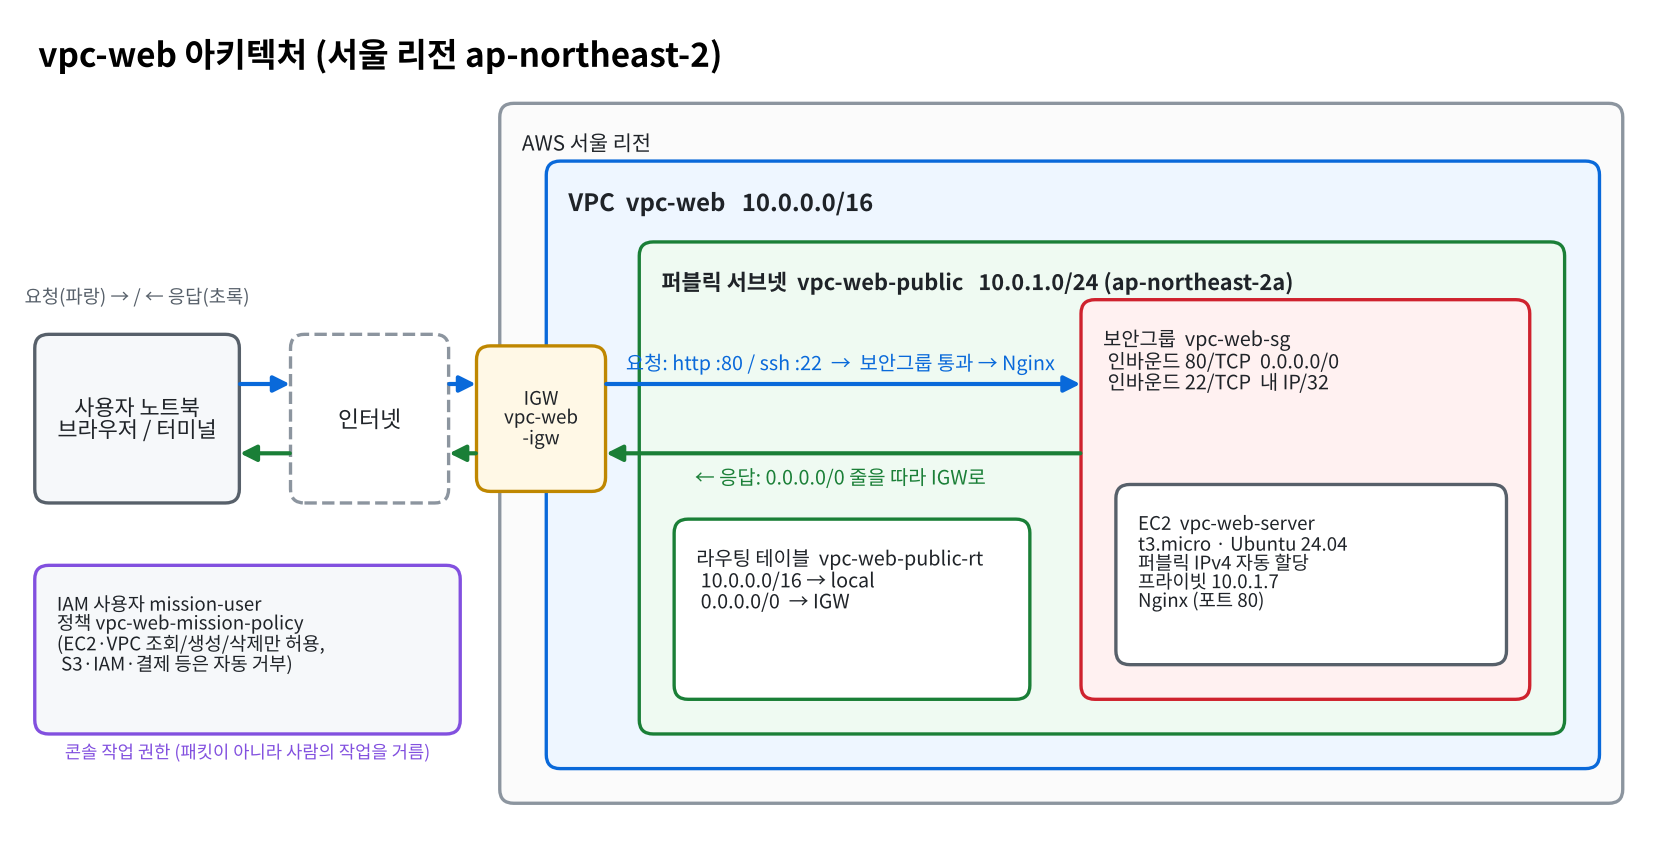
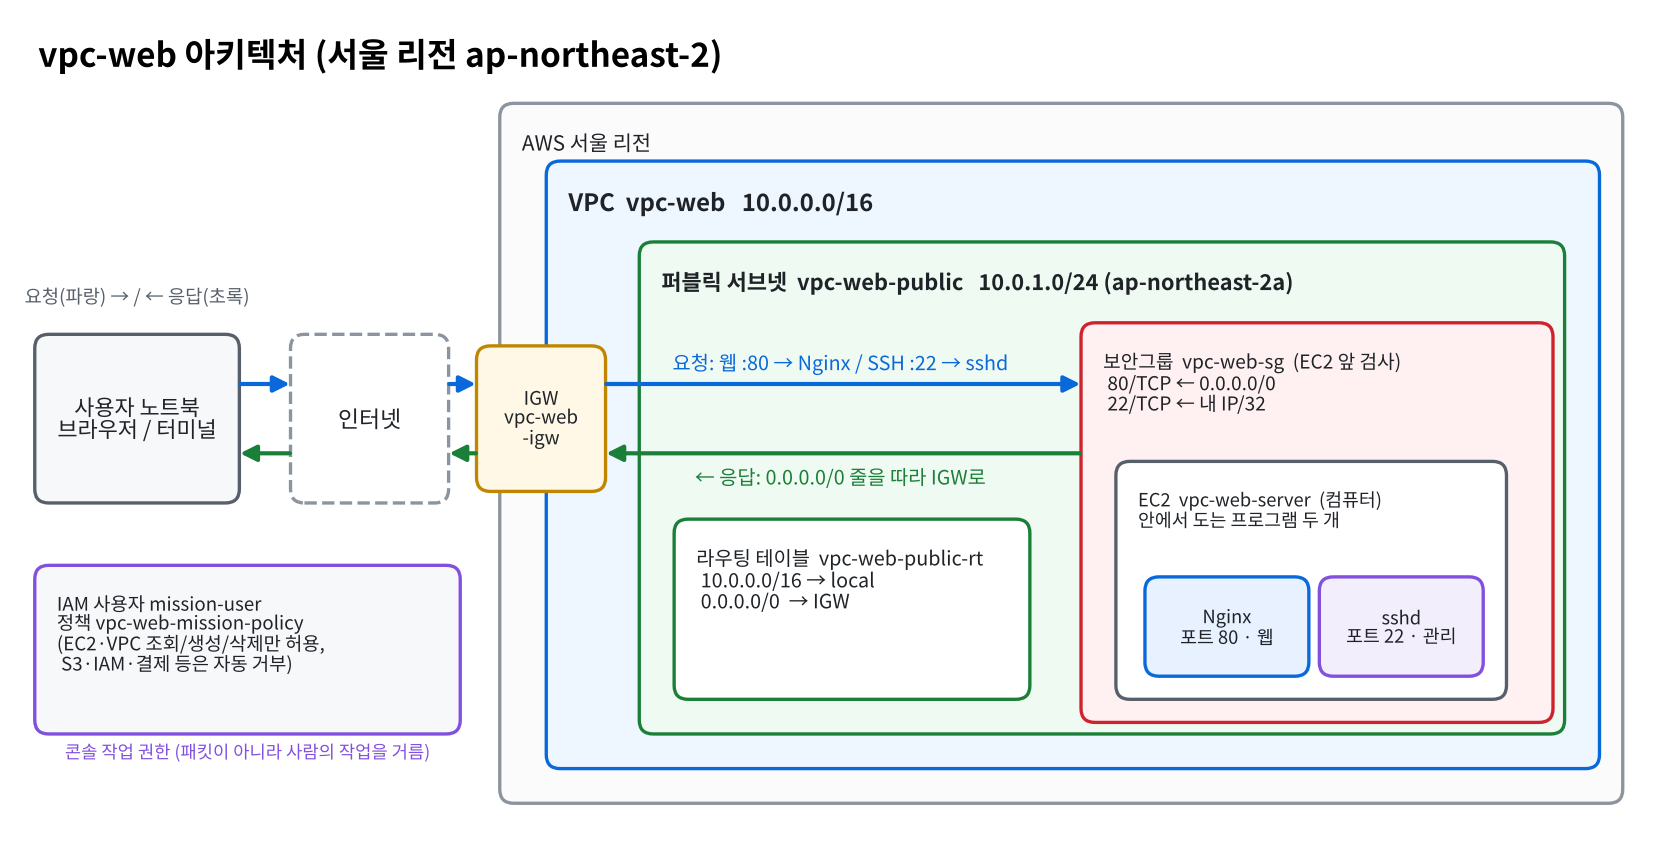
Diagram: show Nginx and sshd as programs inside EC2; link interactive troubleshooting
Claude-Session: https://claude.ai/code/session_018vfR5PU7nv7JTvqkj5N6xN

Changed region(s): [[0.3693, 0.3322, 0.9541, 0.8455]]

diff --git a/README.md b/README.md
@@ -27,7 +27,7 @@ AWS 서울 리전(`ap-northeast-2`)에 VPC → 퍼블릭 서브넷 → 인터넷
 
 ![아키텍처](docs/architecture.png)
 
-- 노트북의 요청은 인터넷 → IGW → (서브넷) → 보안그룹(80·22만 허용) → EC2의 Nginx로 들어가고, 응답은 서브넷 라우팅 테이블의 `0.0.0.0/0 → IGW` 줄을 따라 나간다.
+- 노트북의 요청은 인터넷 → IGW → (서브넷) → 보안그룹(80·22만 허용) → EC2 안의 프로그램으로 들어간다. 웹(80)은 Nginx, SSH(22)는 sshd가 받는다. 응답은 서브넷 라우팅 테이블의 `0.0.0.0/0 → IGW` 줄을 따라 나간다.
 - IAM은 패킷이 아니라 콘솔에서 하는 사람의 작업을 거른다.
 
 ## 계정과 권한

diff --git a/docs/troubleshooting.md b/docs/troubleshooting.md
@@ -1,5 +1,7 @@
 # 트러블슈팅 (vpc-web)
 
+> 단계별로 따라가는 인터랙티브 버전: https://claude.ai/artifact/Mv1tg9PXZAjTQU9DnECCaV (공유 설정 후 열람 가능)
+
 시각과 원본 메모는 [troubleshooting-notes.md](troubleshooting-notes.md)에 있습니다. 이 문서는 그중 두 건을 `증상 → 가설 → 검증 → 조치 → 결과 → 재발 방지` 형식으로 정리한 것입니다.
 
 ## 사례 1. SSH와 웹이 모두 시간 초과 (2026-11-18)
